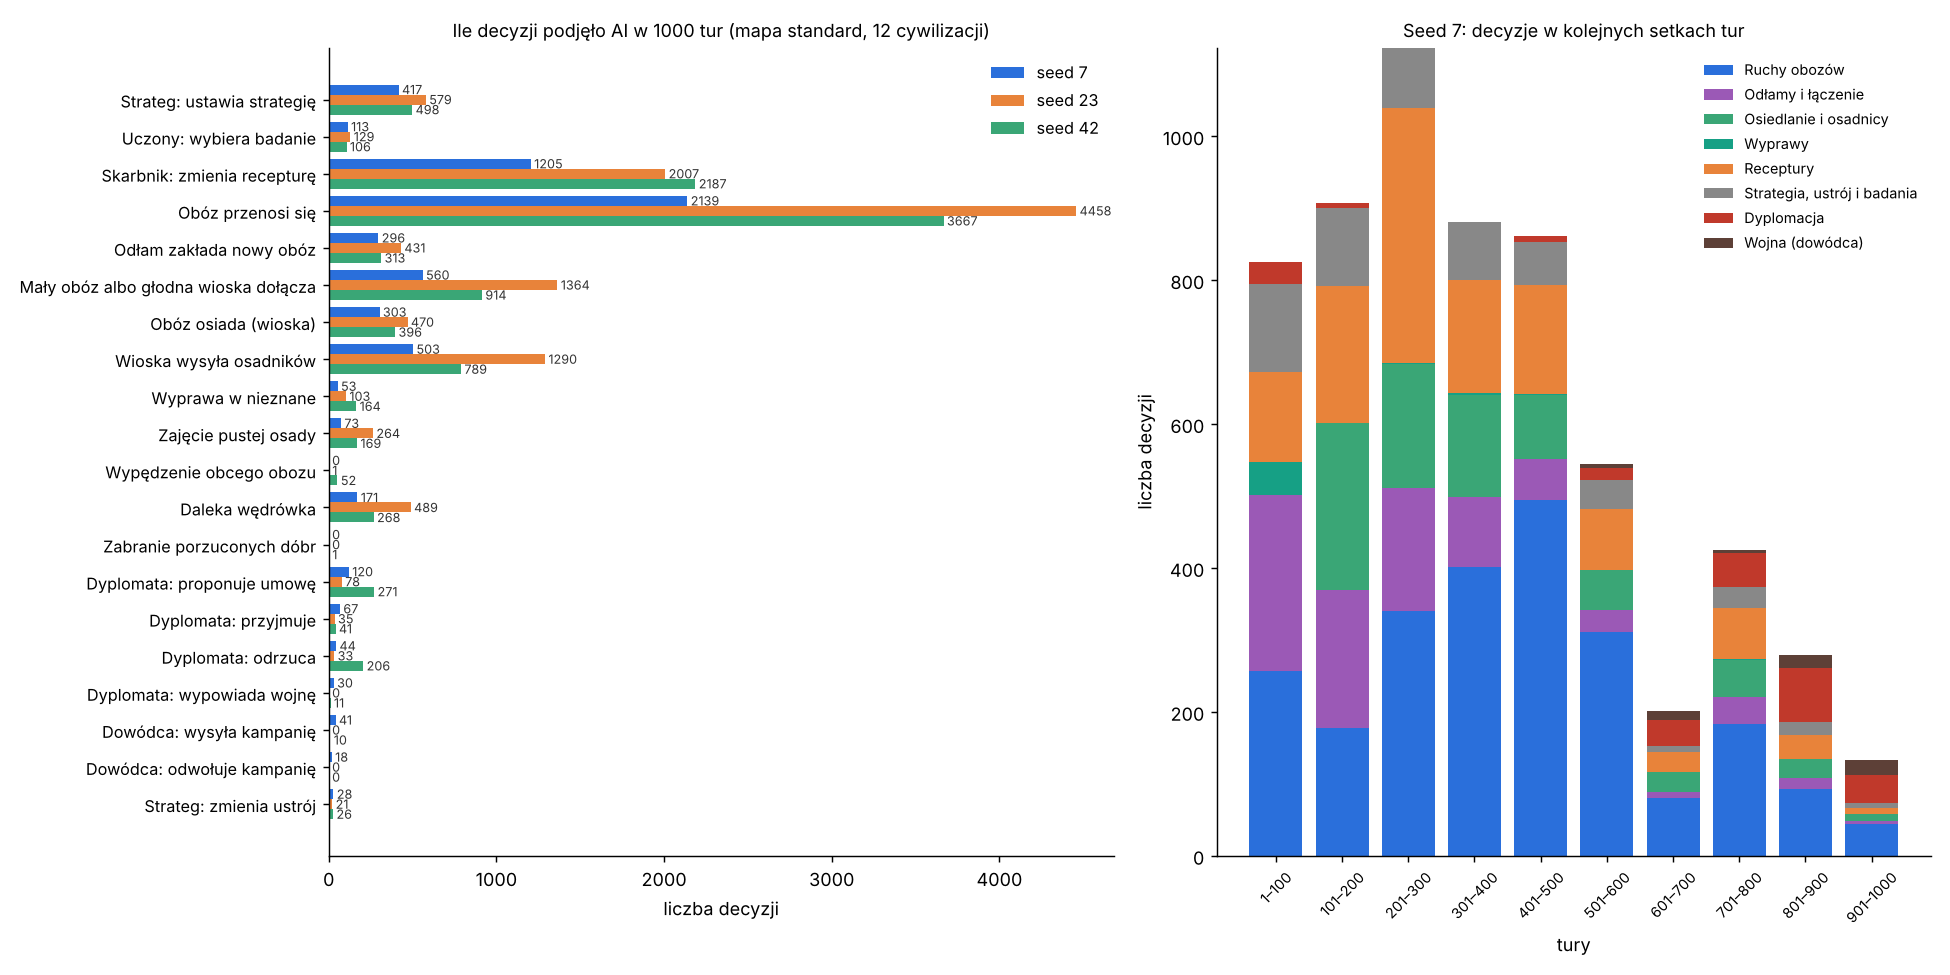
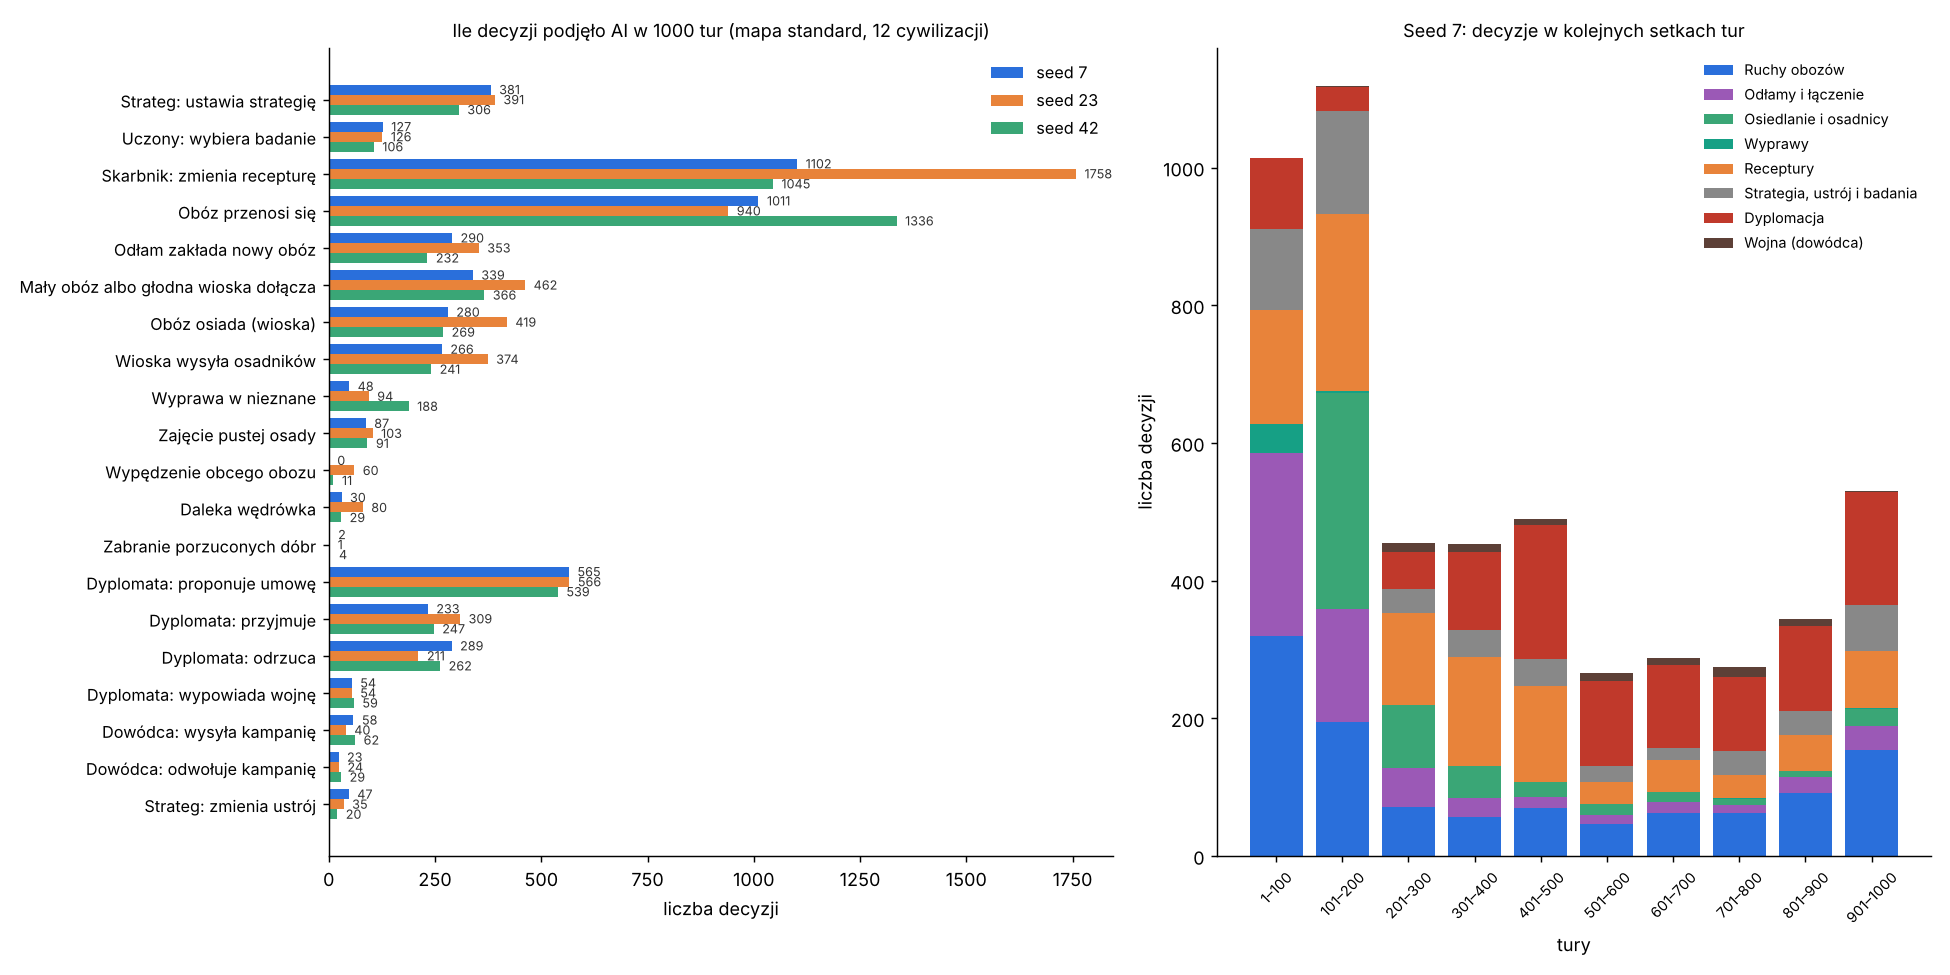
Revenge wars only on neighbours in reach; a long run ends when the world stands still
The diplomat weighs the distance to the nearest settlements for a war of
revenge, as it already did for a war for loot: beyond reachCells there is no
war that no army could fight. A long run also ends after 10 000 game years
without a war, peace, treaty, secession, coup, people dying out or new era.
docs/ai: decision D2, parameters, assessment point 19, statistics from 3 seeds
and a new decision chart.

Claude-Session: https://claude.ai/code/session_0138krc9gwicM1ztQR2rHsWD

diff --git a/src/CivSim.Server/LongRunRecorder.cs b/src/CivSim.Server/LongRunRecorder.cs
@@ -77,6 +77,9 @@ public sealed class LongRunRecorder : IDisposable
     private readonly long _firstWorkingSet;
     private int _behindLogged;
     private bool _finished;
+    private readonly long _stillYears;
+    private long _year;
+    private long _lastChangeYear = -1;
 
     // Totals over the whole run.
     private long _totalTurns;
@@ -101,8 +104,9 @@ public sealed class LongRunRecorder : IDisposable
     /// Opens the files in <paramref name="folder"/> (created when missing). <paramref name="limit"/> zero means no time
     /// limit; <paramref name="sampleEvery"/> is the time between rows of <c>stats.csv</c>.
     /// </summary>
-    public LongRunRecorder(string folder, TimeSpan limit, TimeSpan sampleEvery, int unrestBelow = 30)
+    public LongRunRecorder(string folder, TimeSpan limit, TimeSpan sampleEvery, int unrestBelow = 30, long stillYears = 0)
     {
+        _stillYears = stillYears;
         ArgumentException.ThrowIfNullOrWhiteSpace(folder);
         Folder = Path.GetFullPath(folder);
         Directory.CreateDirectory(Folder);
@@ -216,6 +220,12 @@ public sealed class LongRunRecorder : IDisposable
         double ms = Stopwatch.GetElapsedTime(0, report.TotalTicks).TotalMilliseconds;
         double elapsed = Elapsed.TotalSeconds;
         long year = state.Month / 12;
+        _year = year;
+        if (_lastChangeYear < 0)
+        {
+            _lastChangeYear = year;
+        }
+
         _turnMs.Add(ms);
         _totalTurns++;
         _totalTurnMs += ms;
@@ -234,6 +244,11 @@ public sealed class LongRunRecorder : IDisposable
         foreach (string line in chronicle)
         {
             int kind = KindIndex(line);
+            if (kind <= 6)
+            {
+                _lastChangeYear = year; // a war, peace, treaty, secession, coup, death or new era: the world moves
+            }
+
             _eventCount++;
             _kindCount[kind]++;
             if (kind is 9 or 10)
@@ -287,6 +302,14 @@ public sealed class LongRunRecorder : IDisposable
         if (_limit > TimeSpan.Zero && Elapsed >= _limit)
         {
             Finish(server, string.Create(CultureInfo.InvariantCulture, $"time limit {Hours(_limit)} reached"));
+            return true;
+        }
+
+        if (_stillYears > 0 && _lastChangeYear >= 0 && _year - _lastChangeYear >= _stillYears)
+        {
+            Finish(server, string.Create(
+                CultureInfo.InvariantCulture,
+                $"the world stood still: no war, peace, treaty, secession, coup, people dying out or new era for {_year - _lastChangeYear} years"));
             return true;
         }
 

diff --git a/tests/CivSim.Tests/Server/LongRunTests.cs b/tests/CivSim.Tests/Server/LongRunTests.cs
@@ -97,6 +97,48 @@ public class LongRunTests
     }
 
     [Fact]
+    public void ALongRunEndsWhenTheWorldStandsStill()
+    {
+        string folder = Path.Combine(Path.GetTempPath(), "civsim_longrun_still_" + Environment.ProcessId + "_" + Stopwatch.GetTimestamp());
+        try
+        {
+            LocalGameOptions options = LocalGameOptions.ForSize("test", 5) with
+            {
+                LongRunFolder = folder,
+                LongRunSeconds = 3600,
+                LongRunSampleSeconds = 1,
+                LongRunStillYears = 1, // the first quiet step ends it
+            };
+            using (LocalServerHost host = LocalServerHost.Start(options))
+            {
+                IConnection viewer = host.Connect();
+                viewer.Send(new HelloMessage(ProtocolInfo.Version, "Viewer", ClientRole.Observer));
+                viewer.Send(new SetSpeedMessage(SimulationSpeed.Max));
+                var clock = Stopwatch.StartNew();
+                while (!host.LongRunFinished)
+                {
+                    Assert.True(clock.Elapsed < TimeSpan.FromSeconds(30), "the long run did not end");
+                    while (viewer.TryReceive(out _))
+                    {
+                    }
+
+                    Thread.Sleep(10);
+                }
+            }
+
+            string summary = File.ReadAllText(Path.Combine(folder, "summary.txt"));
+            Assert.Contains("ended:            the world stood still", summary, StringComparison.Ordinal);
+        }
+        finally
+        {
+            if (Directory.Exists(folder))
+            {
+                Directory.Delete(folder, recursive: true);
+            }
+        }
+    }
+
+    [Fact]
     public void ClosingTheGameEarlyStillWritesTheSummary()
     {
         string folder = Path.Combine(Path.GetTempPath(), "civsim_longrun_closed_" + Environment.ProcessId + "_" + Stopwatch.GetTimestamp());

diff --git a/src/CivSim.Server/LocalServerHost.cs b/src/CivSim.Server/LocalServerHost.cs
@@ -92,11 +92,12 @@ public sealed class LocalServerHost : IDisposable
                 options.LongRunFolder,
                 TimeSpan.FromSeconds(Math.Max(0, options.LongRunSeconds)),
                 TimeSpan.FromSeconds(Math.Max(1, options.LongRunSampleSeconds)),
-                content.Stability.UnrestBelow);
+                content.Stability.UnrestBelow,
+                Math.Max(0, options.LongRunStillYears));
             host._longRun.Log(string.Create(
                 CultureInfo.InvariantCulture,
                 $"start: seed {options.Seed}, map {options.Width}x{options.Height}, {options.Civilizations} civilizations, planet {options.Planet}, world {options.WorldType}, " +
-                $"limit {(options.LongRunSeconds > 0 ? options.LongRunSeconds + " s" : "none")}, row every {Math.Max(1, options.LongRunSampleSeconds)} s, " +
+                $"limit {(options.LongRunSeconds > 0 ? options.LongRunSeconds + " s" : "none")}, ends after {(options.LongRunStillYears > 0 ? options.LongRunStillYears + " still years" : "no still years")}, row every {Math.Max(1, options.LongRunSampleSeconds)} s, " +
                 $"{Environment.ProcessorCount} processor threads, {Environment.OSVersion}, .NET {Environment.Version}"));
         }
 

diff --git a/src/CivSim.Protocol/Hosting/LocalGameOptions.cs b/src/CivSim.Protocol/Hosting/LocalGameOptions.cs
@@ -84,6 +84,12 @@ public sealed record LocalGameOptions(ulong Seed, int Width, int Height, int Civ
     /// <summary>Seconds between rows of the long run's stats.csv.</summary>
     public int LongRunSampleSeconds { get; init; } = 10;
 
+    /// <summary>
+    /// A long run also ends when nothing changed in the world for this many game years: no war, peace, treaty, secession,
+    /// coup, people dying out or new era (stage 5b). 0 = never.
+    /// </summary>
+    public long LongRunStillYears { get; init; } = 10_000;
+
     /// <summary>Map size words in the order of the start menu.</summary>
     public static IReadOnlyList<string> SizeNames { get; } = ["test", "standard", "large", "huge"];
 

diff --git a/src/CivSim.Core/Ai/DiplomatAdvisor.cs b/src/CivSim.Core/Ai/DiplomatAdvisor.cs
@@ -166,6 +166,7 @@ public sealed class DiplomatAdvisor(GameContent content) : Advisor(content, Advi
                 break;
             case TreatyKind.War:
                 e.Apply(FactorId.Opinion, rules.Hostility, sympathy);
+                e.Apply(FactorId.Distance, near <= rules.ReachCells ? Factor.Neutral : 0, near); // stage 5b: no war on those out of reach
                 bool cause = Treaties.HasGrievance(state, civ.Id, other);
                 e.Apply(FactorId.Cause, cause ? Factor.Neutral : 0, cause ? 1 : 0);
                 e.Apply(FactorId.Strength, rules.Advantage, Percent(_own[x], EnemyStrength(state, civ, x, other)));

diff --git a/docs/ai/README.md b/docs/ai/README.md
@@ -4,7 +4,7 @@ Ten katalog opisuje **każdą decyzję**, którą podejmuje sztuczna inteligencj
 na podstawie jakich danych, według jakiego wzoru, z jakimi progami i gdzie to jest w kodzie. Jest pisany dla Patryka:
 żeby można było ocenić, czy mechanika nie jest za prosta albo za skomplikowana i bez sensu.
 
-**Stan opisu:** etap 4d + zegar świata (ADR 0018) + wartości i priorytety (PR B, ADR 0019) + ziemia i migracje (PR C) + fachy, ludzie i demografia (cały etap 4F) + wojna z celem i pokój z warunkami (etap 4e PR 1) + epizody i pierwszy dowódca (etap 4e PR 2) + armie z wielu osad, uzbrojenie i zaopatrzenie (etap 4e PR 3) + bitwy w rundach (etap 4e PR 4) + dowódca, który rozgrywa bitwę w głowie i co miesiąc patrzy jeszcze raz (etap 4e PR 5) + strojenie wojny (etap 4e PR 6) + ustroje (etap 4f PR 1) + przywódcy (etap 4f PR 2) + stabilność (etap 4f PR 3) + bunty i secesja (etap 4f PR 4) + AI wobec państwa: przeciążenie, niepokoje, wybór ustroju i koniec pętli odwetu (etap 4f PR 5) + testy wsadowe (etap 4g) + poprawki po 100 grach: głód wiosek, wojny o łupy i ziemię, sojusze (gałąź `feat/ai-fixes`).
+**Stan opisu:** etap 4d + zegar świata (ADR 0018) + wartości i priorytety (PR B, ADR 0019) + ziemia i migracje (PR C) + fachy, ludzie i demografia (cały etap 4F) + wojna z celem i pokój z warunkami (etap 4e PR 1) + epizody i pierwszy dowódca (etap 4e PR 2) + armie z wielu osad, uzbrojenie i zaopatrzenie (etap 4e PR 3) + bitwy w rundach (etap 4e PR 4) + dowódca, który rozgrywa bitwę w głowie i co miesiąc patrzy jeszcze raz (etap 4e PR 5) + strojenie wojny (etap 4e PR 6) + ustroje (etap 4f PR 1) + przywódcy (etap 4f PR 2) + stabilność (etap 4f PR 3) + bunty i secesja (etap 4f PR 4) + AI wobec państwa: przeciążenie, niepokoje, wybór ustroju i koniec pętli odwetu (etap 4f PR 5) + testy wsadowe (etap 4g) + poprawki po 100 grach: głód wiosek, wojny o łupy i ziemię, sojusze (gałąź `feat/ai-fixes`) + poprawki po 4-godzinnym biegu: wojna o odwet tylko w zasięgu, zasięg władzy i dryf osad (etap 5b, PR #63).
 **Aktualizacja:** po każdym etapie, który zmienia AI (zasada w `CLAUDE.md`). Historia zmian jest na dole tej strony.
 
 ## Jak czytać
@@ -148,3 +148,4 @@ w `docs/systems/`:
 | 2026-11-07 | AI wobec państwa (etap 4f, PR 5) | Nowa decyzja **S2** (strateg wybiera ustrój: dopasowanie cech, w niepokojach premia stabilności, histereza 30%, 200 lat spokoju po zmianie). S1: przeciążona administracja obniża wagę ekspansji (do 50%), niepokoje podnoszą bezpieczeństwo × 1,5. D2: w niepokojach wojna × 0,5, w bezkrólewiu bez wojen; pokój zamyka rachunek krzywd (`Relation.SettledMonth`, koniec pętli odwetu, ocena pkt 14). Nowe czynniki *stability*, *administration*, *suitability*; 6 nowych parametrów w `ai.json`; nowa sytuacja w `DeadValueTests`; statystyki z 3 seedów, wykres decyzji i stabilności. |
 | 2026-11-07 | testy wsadowe (etap 4g) | Bez zmian decyzji AI. Nowy tryb `--batch` w Headless i raport ze 100 gier ([12-testy-wsadowe.md](12-testy-wsadowe.md)): wojny się kończą, dyplomacja i upadki działają; za proste: wioski głodują bez reakcji (G7 nie patrzy na głód), nikt nie wypowiada wojny o łupy, żadna osada nie zmienia właściciela na wojnie, sojusze rzadko działają. Ocena w `08` (pkt 18). |
 | 2026-11-07 | poprawki po 100 grach (etap 4g) | G7: głodna wioska (< 70%) wysyła osadników co 20 lat, tylu, ilu nie wyżywi; mała głodna wioska (< 60 osób) przenosi się do najedzonej własnej osady. D2: wojny z chciwości bez powodu: o łupy (głód, widziane spichlerze, przewaga) i o ziemię (widziana wioska, którą armia zdobędzie z szansą ≥ 75%, waga ekspansji); nigdy nie łamią umowy. Pakt i sojusz: krzywa zagrożenia od 0,8, zaufanie do sojuszu od 0,5, wspólny wróg w pełni. Nowe czynniki *loot*, *expansion*; 2 nowe parametry w `ai.json`, 4 nowe krzywe w `diplomacy.json`; sytuacja „głodne wioski” w `DeadValueTests`. Porównanie 100 gier w `12-testy-wsadowe.md` (głodujące wioski 21 zamiast 322 na grę, podboje w 19 grach, łupy w 81, sojusze 4 na grę), statystyki z 3 seedów w `09`. |
+| 2026-11-08 | poprawki po 4-godzinnym biegu (etap 5b) | D2: wojna o odwet wymaga sąsiada w zasięgu `reachCells` (16 pól), jak wojna o łupy; na kontynentach (seed 7) wojen o odwet 178 zamiast 336. Wokół AI: zasięg władzy ustroju (`reach` w `governments.json`) i dryf dalekich osad (`driftPerMillePerYear` w `stability.json`) dają ok. 40 małych ludów zamiast 11 dużych; własna ziemia band łowców; stolice. Ocena pkt 19, statystyki z 3 seedów i nowy wykres decyzji w `09`. |

diff --git a/docs/ai/08-ocena-i-uwagi.md b/docs/ai/08-ocena-i-uwagi.md
@@ -28,6 +28,7 @@ zmienia zasady gry, więc decydujesz Ty. **Stan: po PR C (ziemia i migracje)**; 
 | Stabilność (etap 4f, PR 3, PR 5) | **AI reaguje prosto** | przeciążenie hamuje ekspansję, niepokoje: bezpieczeństwo w górę, wojna w dół, spokojniejszy ustrój (pkt 16) |
 | Bunty i secesja (etap 4f, PR 4) | **reguła, nie decyzja** | nowe ludy powstają z dalekich osad; AI rodzica może się mścić (pkt 17) |
 | Testy wsadowe (etap 4g) | **4 dziury poprawione** | po poprawkach: głodujące wioski 21 zamiast 322 na grę, wojny o łupy w 81 grach, podboje w 19, sojusze 4 na grę (pkt 18) |
+| Po 4-godzinnym biegu (etap 5b) | **odwet tylko w zasięgu** | wojna o odwet wymaga sąsiada w zasięgu 16 pól; zasięg władzy i dryf dają ~40 małych ludów zamiast ~11 dużych, więc wojen i podbojów jest dużo więcej (pkt 19) |
 
 ## 1. Wagi i cechy, które nic nie zmieniają (zamknięte w PR B)
 
@@ -317,6 +318,24 @@ na tych samych 100 seedach w [12-testy-wsadowe.md](12-testy-wsadowe.md#po-popraw
 
 Za proste albo do pilnowania: wojny z chciwości nigdy nie łamią umowy (zasada w kodzie, nie cecha charakteru; lojalność liczy się tylko
 przy odwecie), a ocena łupów zakłada, że AI widzi zapasy w osadach, które widzi teraz (bez szpiegów i pogłosek).
+
+## 19. Po 4-godzinnym biegu Patryka (etap 5b)
+
+**Co zmieniono w AI:** jedna rzecz. Wojna o odwet (D2) dostała ten sam warunek zasięgu co wojna o łupy: najbliższe osady obu ludów
+najwyżej 16 pól od siebie (`reachCells`). Wcześniej lud mógł wypowiedzieć wojnę z zemsty komuś za morzem albo na drugim końcu
+kontynentu; armia nie miała jak dojść, więc po 5 latach bez walki wojna kończyła się sama białym pokojem (problem 8 Patryka).
+Na kontynentach (seed 7, 6000 tur) wojen o odwet jest 178 zamiast 336.
+
+**Co zmieniło się wokół AI (reguły, nie decyzje):** zasięg władzy ustroju i dryf dalekich osad (`docs/systems/stability.md`),
+silniejsze plemiona łowców (własna ziemia), stolice. Skutek dla AI: zamiast ~11 dużych ludów jest ~40 małych (8 gier × 2000 tur),
+więc dyplomaci mają dużo więcej sąsiadów. Wojen jest ok. 12× więcej (201 zamiast 16,5 na grę), podbojów 20× więcej (29,6 zamiast 1,5),
+a krok świata częściej trwa miesiąc (wojny), więc 2000 tur to ok. 11 600 lat zamiast 48 000.
+
+**Za proste albo do pilnowania:**
+- Nadal około 2/3 wojen o odwet kończy się bez kampanii. Teraz to głównie wojny rodzica z ludem, który się od niego odłączył
+  (secesja to powód odwetu, decyzja Patryka z 2026-11-07), gdy rodzic nie ma wolnych wojowników albo dowódca uznaje szansę za zbyt
+  małą. Kandydat do następnego kroku: dyplomata pyta dowódcę (K1) o szansę przed wypowiedzeniem wojny o odwet, jak przy wojnie o ziemię.
+- Przy 64 ludach (limit gry) dryf i secesje stają; większe państwa mogą wtedy znowu rosnąć. W 2000 turach limit osiągnęła 1 z 8 gier (seed 102).
 
 ## Decyzje Patryka (2026-11-06)
 

diff --git a/docs/ai/10-dyplomata.md b/docs/ai/10-dyplomata.md
@@ -62,7 +62,7 @@ Czynniki każdego kroku:
 | **umowa handlowa** | opinia × bliskość (bramy ≤ 16 pól, inaczej 0) × zysk z handlu | dobrobyt | handlowość |
 | **pakt o nieagresji** | opinia × zaufanie × bliskość (≤ 16 pól) × zagrożenie od nich | bezpieczeństwo | ostrożność |
 | **sojusz obronny** | opinia × zaufanie do sojuszu × największe zagrożenie od **innej** cywilizacji (wspólny wróg = 1500, patrz niżej) | bezpieczeństwo | **lojalność** |
-| **wojna o odwet** | wrogość × powód (0 bez powodu) × przewaga × (gdy łamie umowę: 1000 − lojalność, min. 100) × (w niepokojach 0,5) | podbój | agresja |
+| **wojna o odwet** | wrogość × zasięg (0, gdy najbliższe osady są dalej niż `reachCells` = 16 pól; od etapu 5b) × powód (0 bez powodu) × przewaga × (gdy łamie umowę: 1000 − lojalność, min. 100) × (w niepokojach 0,5) | podbój | agresja |
 | **wojna o łupy** (po 4g) | chciwość × bliskość (≤ 16 pól) × potrzeba łupów × łupy × przewaga × (umowa z nimi: 0) × (w niepokojach 0,5) | podbój | agresja |
 | **wojna o ziemię** (po 4g) | chciwość × szansa podboju najlepszej wioski × waga ekspansji stratega (czynnik *expansion*) × (umowa z nimi: 0) × (w niepokojach 0,5) | podbój | agresja |
 | **pokój** | zmęczenie wojną × wynik wojny (od 4e PR 6) × opinia o pokoju × warunki pokoju | bezpieczeństwo | ostrożność |

diff --git a/docs/ai/09-statystyki.md b/docs/ai/09-statystyki.md
@@ -16,6 +16,22 @@ Wykres: `python3 docs/ai/tools/decisions_chart.py <katalog z why7.csv, why23.csv
 
 ![Ile decyzji podjęło AI](img/decyzje_1000_tur.png)
 
+## Po 4-godzinnym biegu (etap 5b)
+
+3 seedy, mapa standard, 1000 kroków świata, gałąź `claude/project-thread-04udi9` (PR #63). Wykres decyzji wyżej jest z tych gier.
+W nawiasach stan przed etapem 5b (commit `14cd39c`).
+
+| Seed | Decyzje | Wypowiedzenia wojny | Kampanie | Propozycje umów | Ludy żywe na końcu | Secesje | Lata gry |
+| --- | --- | --- | --- | --- | --- | --- | --- |
+| 7 | 5232 (9289) | 54 (11) | 58 (4) | 565 (91) | 39 (10) | 27 (0) | 12 100 (25 450) |
+| 23 | 6400 (10057) | 54 (3) | 40 (2) | 566 (75) | 45 (10) | 34 (0) | 12 100 (26 975) |
+| 42 | 5442 (13977) | 59 (3) | 62 (1) | 539 (392) | 33 (12) | 21 (0) | 10 551 (27 375) |
+
+- **Mniej decyzji, bo mniej lat:** wojny skracają kroki świata do miesiąca, więc 1000 kroków to ok. 11–12 tys. lat zamiast 25–27 tys.
+  Na rok gry decyzji jest więcej niż wcześniej.
+- **Dużo więcej dyplomacji i wojny:** ok. 40 małych ludów zamiast 10–12 dużych; każdy ma więcej sąsiadów. Kampanii jest kilkanaście
+  razy więcej (wcześniej 1–4 na grę).
+
 ## Poprawki po 100 grach (etap 4g)
 
 3 seedy, mapa standard, 1000 kroków świata, gałąź `feat/ai-fixes`. Wykres decyzji wyżej jest z tych gier. W nawiasach 4f PR 5.

diff --git a/ROADMAP.md b/ROADMAP.md
@@ -224,7 +224,7 @@ Przed nowymi erami. Analiza biegu: tura 93 ms (cel 50), FPS ok. 52, 8 z 12 cywil
 - [x] **Hamulec neolitu:** zasięg władzy od stolicy, dalekie osady odłączają się jako nowe plemiona; brak imperiów przed epoką brązu (zmiana GDD)
 - [x] **Spokojniejszy ekran:** przywódcy jednym komunikatem na turę, drobne zdarzenia w podsumowaniach na cywilizację
 - [x] **Wydajność:** płynniejszy obraz (rzadsze i mniejsze przerysowania, mniej sprzątania pamięci), tura < 50 ms (seed 42, 8000 tur: śr. 12 ms, było 41 ms; FPS do sprawdzenia u Patryka)
-- [ ] **Długi bieg:** koniec, gdy świat stoi w miejscu; test na kontynentach (wojny, inwazje, wojny z zemsty)
+- [x] **Długi bieg:** koniec, gdy świat stoi w miejscu (10 000 lat bez zmian); test na kontynentach (seed 7): wojna z zemsty tylko na sąsiadów w zasięgu, o połowę mniej wojen bez walki
 
 ## Etapy 6–12 — Ery 3–9
 

diff --git a/docs/ai/07-parametry.md b/docs/ai/07-parametry.md
@@ -124,7 +124,7 @@ w zapisanych sytuacjach z gier. Parametr, który niczego nie zmienia, wywala tes
 | `declareWarAbove` | 1,5 | ocena | D2 | próg wypowiedzenia wojny |
 | `retryYears` | 100 | lata | D2 | po odmowie nie proponuje tego samego |
 | `peaceRetryYears` | 1 | lata | D2 | po odmowie pokoju proponuje go znowu po roku (od 4e PR 6) |
-| `reachCells` | 16 | pola | D1, D2, handel | zasięg handlu i paktu |
+| `reachCells` | 16 | pola | D1, D2, handel | zasięg handlu i paktu; od etapu 5b także wojny o odwet (jak wcześniej wojny o łupy) |
 | `tradeSharePercent` | 50 | **% na krok** | handel | jaka część nadwyżki idzie przez bramę (w kroku, który ma któraś ze stron) |
 | `witnessPercent` | 50 | % | D3 | jak mocno złamanie umowy pamiętają świadkowie |
 | `allyJoinBasePerMille` | 300 | ‰ | D3 | szansa dołączenia sojusznika przy lojalności 0 |

diff --git a/docs/systems/long-run.md b/docs/systems/long-run.md
@@ -23,6 +23,9 @@ Potem F5 i można odejść od komputera. Albo w menu startowym, kolumna „Simul
 | `--long-run-every 10` | co ile sekund nowy wiersz w `stats.csv` (domyślnie 10 → 1440 wierszy na 4 h) |
 
 Bieg rusza z prędkością **maksymalną**, chyba że w menu lub `--speed` wybrano inną. Po czasie gra się zamyka.
+Bieg kończy się też wcześniej, gdy **świat stoi w miejscu** (etap 5b): przez 10 000 lat gry nie było żadnej wojny, pokoju,
+traktatu, secesji, przewrotu, wymarcia ani nowej ery (`LocalGameOptions.LongRunStillYears`, 0 = wyłączone). Powód końca jest
+w `summary.txt` („ended: the world stood still…”) i w `log.txt`.
 Zamknięcie okna wcześniej (albo Esc do menu) też kończy zapis i zostawia podsumowanie. Dane trafiają na dysk
 po każdym wierszu `stats.csv`, więc awaria gubi najwyżej ostatnie sekundy.
 
